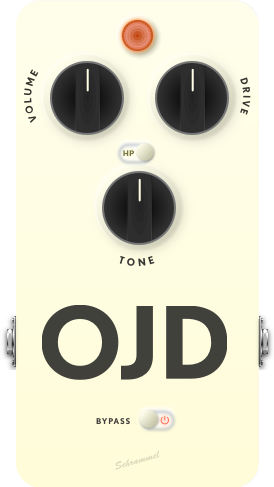
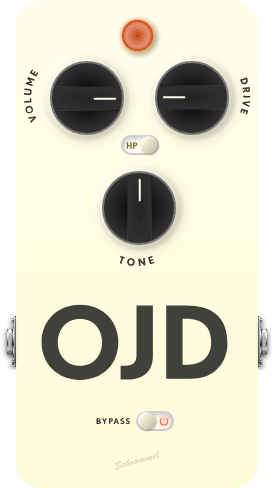
OJD modgui final touches

diff --git a/plugins-fixed/OJD.lv2/modgui/stylesheet-ojd.css b/plugins-fixed/OJD.lv2/modgui/stylesheet-ojd.css
@@ -5,7 +5,7 @@
     background-position: center center;
     background-repeat: no-repeat;
     background-size: 270px 500px;
-    width: 243px;
+    width: 242px;
     height: 488px;
     margin: 0;
     padding: 0;
@@ -16,7 +16,7 @@
     background-position: center center;
     background-repeat: no-repeat;
     background-size: 270px 500px;
-    width: 244px;
+    width: 243px;
     height: 488px;
     position: absolute;
 }
@@ -56,20 +56,21 @@
     background-size: 30px 30px;
     width: 30px;
     height: 30px;
+    top: -9px;
     position: relative;
 }
 .schrammel-ojd .on .schrammel-ojd-switch {
-    left: -4px;
+    left: -7px;
 }
 .schrammel-ojd .off .schrammel-ojd-switch {
-    left: 14px;
+    left: 9px;
 }
 /* inverted for bypass */
 .schrammel-ojd .mod-footswitch.on .schrammel-ojd-switch {
-    left: 14px;
+    left: 8px;
 }
 .schrammel-ojd .mod-footswitch.off .schrammel-ojd-switch {
-    left: -4px;
+    left: -8px;
 }
 
 .schrammel-ojd .mod-control-group {
@@ -94,7 +95,7 @@
 
 .schrammel-ojd .mod-control-group.schrammel-ojd-hp_lp {
     top: 135px;
-    left: 98px;
+    left: 105px;
 }
 
 .schrammel-ojd .mod-switch {
@@ -103,35 +104,38 @@
 .schrammel-ojd .mod-footswitch {
     position: absolute !important;
     left: 120px;
-    bottom: 54px;
+    bottom: 57px;
 }
 
 .schrammel-ojd .mod-switch,
 .schrammel-ojd .mod-footswitch {
     background-image: url(/resources/Graphics/slideSwitchShadow.png{{{ns}}});
     background-repeat: no-repeat;
-    background-size: contain;
+    background-size: cover;
+    border: 2px solid #ccc;
+    border-radius: 14px;
     cursor: pointer;
-    width: 44px;
-    height: 32px;
+    width: 38px;
+    height: 20px;
 }
 
 .schrammel-ojd .mod-switch .schrammel-ojd-hp_lp-bg {
     background-image: url(/resources/Graphics/hpLpBackground.svg{{{ns}}});
     background-repeat: no-repeat;
     background-size: 36px 15px;
+    image-rendering: crisp-edges;
     width: 18px;
     height: 15px;
     position: absolute;
-    top: 11px;
+    top: 3px;
 }
 .schrammel-ojd .mod-switch.off .schrammel-ojd-hp_lp-bg {
     background-position: top left;
-    left: 5px;
+    left: 1px;
 }
 .schrammel-ojd .mod-switch.on .schrammel-ojd-hp_lp-bg {
     background-position: top right;
-    left: 21px;
+    left: 19px;
 }
 
 .schrammel-ojd .mod-footswitch .schrammel-ojd-bypass-bg {
@@ -141,8 +145,8 @@
     width: 20px;
     height: 20px;
     position: absolute;
-    top: 8px;
-    left: 19px;
+    top: -2px;
+    left: 16px;
 }
 .schrammel-ojd .mod-footswitch.on .schrammel-ojd-bypass-bg {
     display: none;
